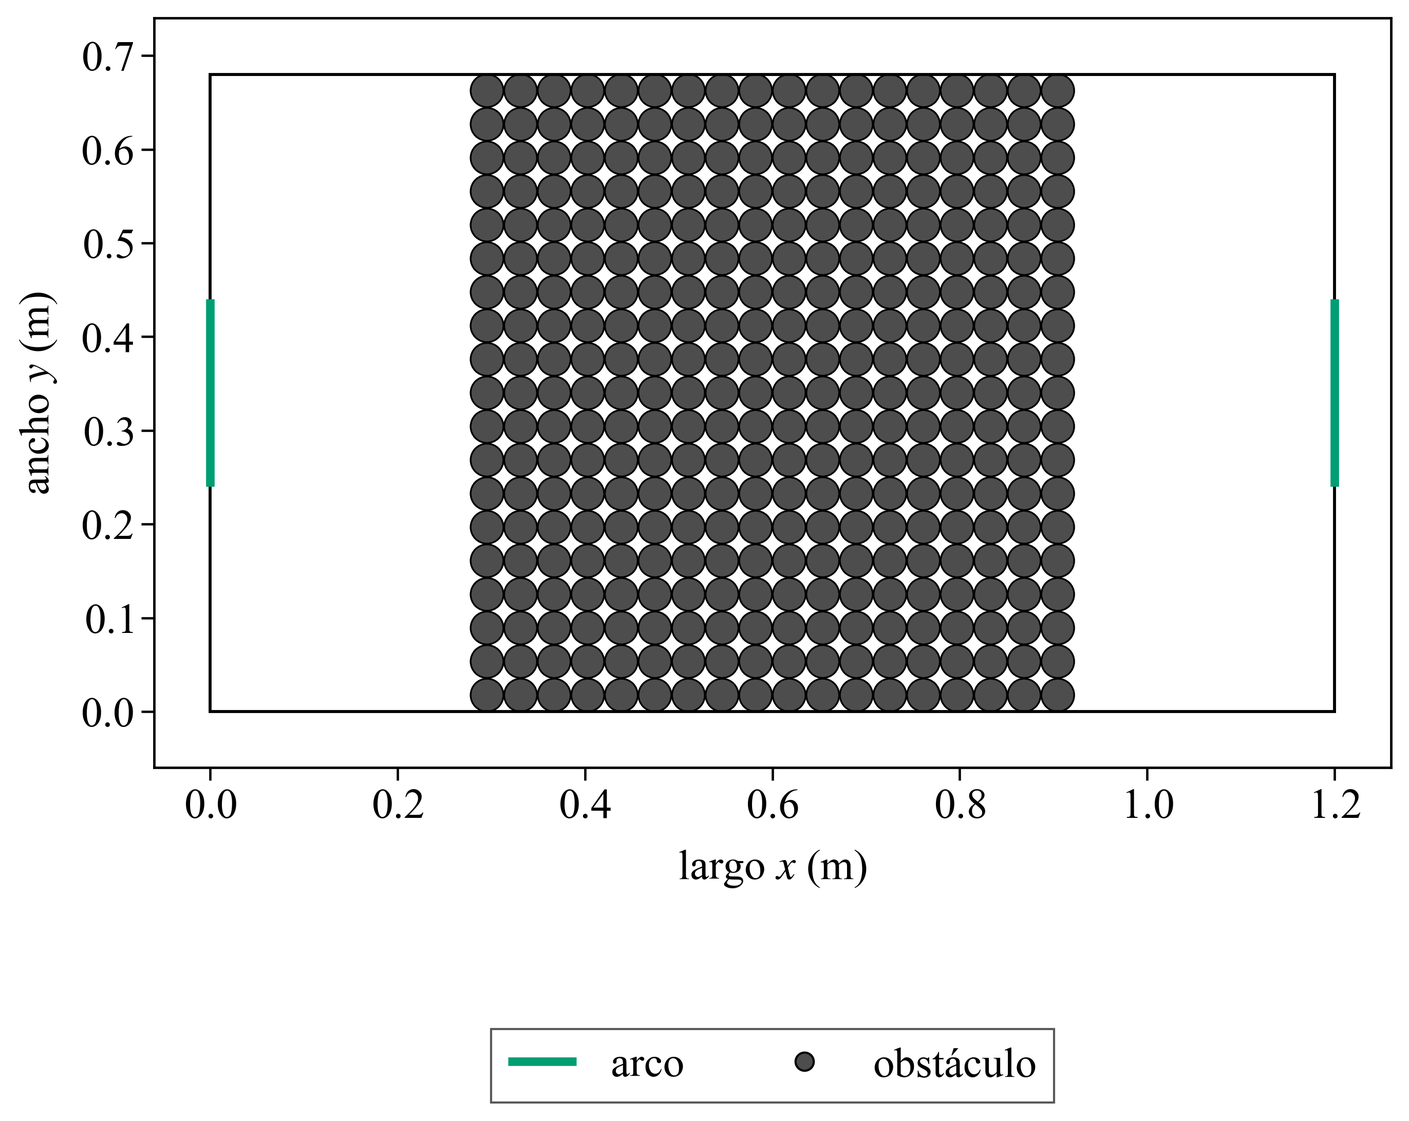
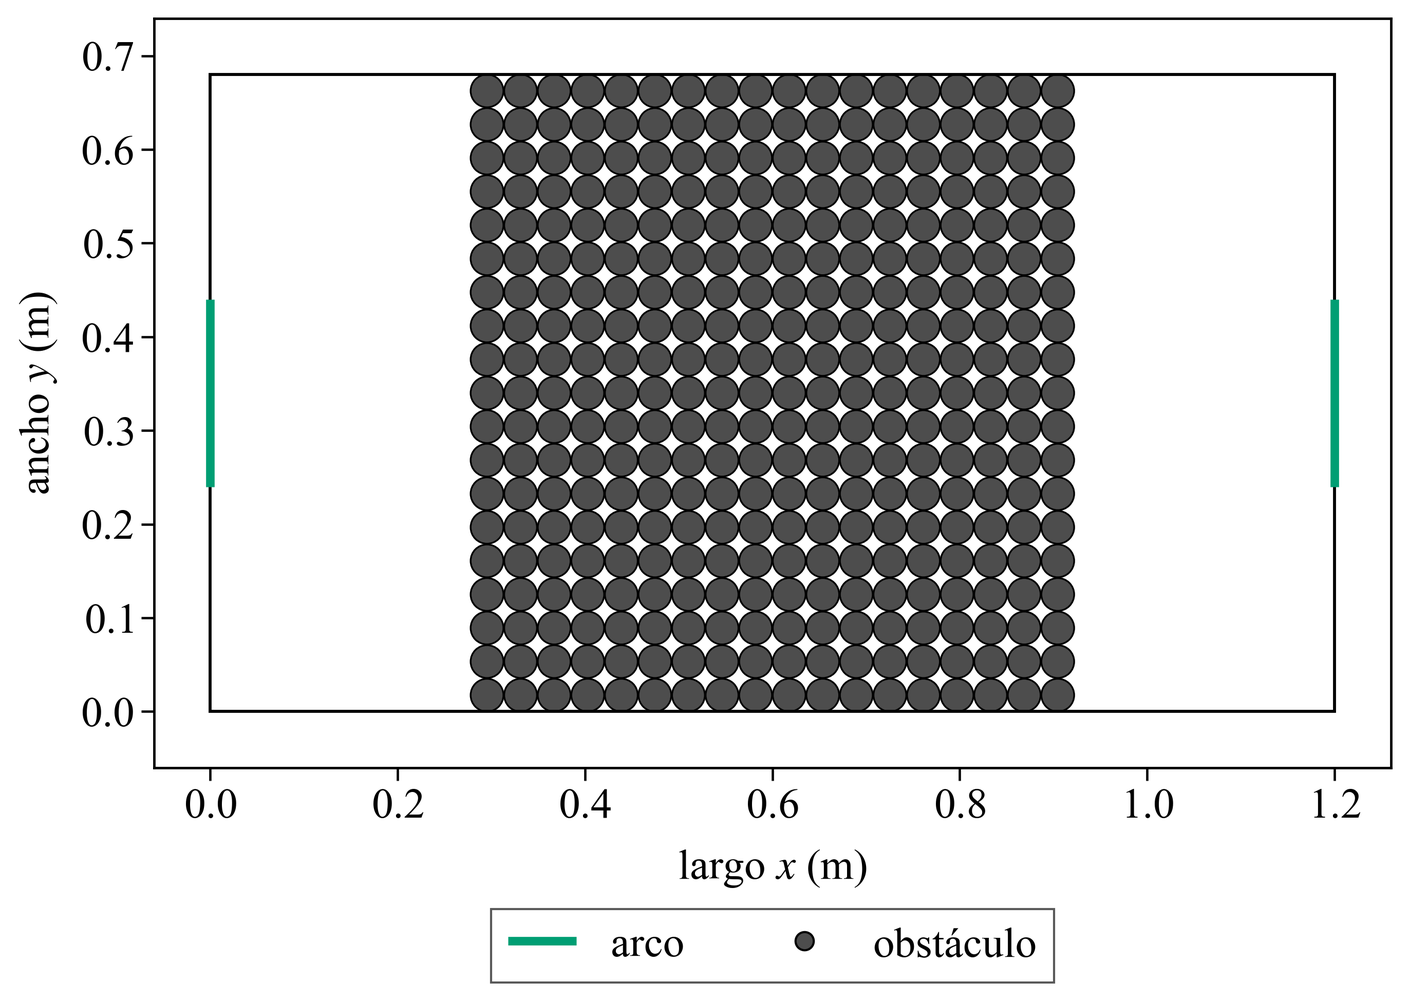
Updated markdowns

diff --git a/docs/results/1.2/1.2_configuracion.md b/docs/results/1.2/1.2_configuracion.md
@@ -12,129 +12,110 @@ menos 5 realizaciones, y comparar contra la mesa vacía.
 ## Cómo se midió
 
 ```
-python python/ga.py --outdir data/ga/full --pop 32 --gens 20 --reps 12 --jobs 8 --seed 501 --seed-config configs/ga_best.txt --exe build/EventDrivenSim.exe
-python python/run.py --exe build/EventDrivenSim.exe --outdir data/runs/1.2/empty_search --reps 12 --seed 501 --k 0 --tmax 100 --jobs 4 --preview none
-python python/plotters/plot_layout.py --obstacles configs/ga_best.txt --output docs/results/1.2/elegida.png
-python python/plotters/plot_t90.py --input docs/results/1.2/t90_generacion.txt --output docs/results/1.2/t90_generacion.png --xlabel "generación" --empty 21.3247 2.8559
-```
-
-- **Parámetros fijos:** N = 100, v0 = 1 m/s, r = 0.0175 m, m = 0.025 kg, L = 1.20 m, W = 0.68 m, d = 0.20 m, tmax = 100 s.
-- **Individuo:** lista de discos (xk, yk, Rk). Población 32, 20 generaciones. La población inicial incluye embudos, rieles, un obstáculo grande sobre el eje longitudinal y la configuración de la corrida anterior.
-- **Búsqueda:** 12 realizaciones por individuo, semillas 501 a 512, las mismas para todos. Si el mejor no mejora durante 5 generaciones la búsqueda corta; en esta corrida siguió hasta la 20.
-- **Confirmación:** semillas 601 a 612, que no entraron en la búsqueda. Ese es el ⟨t90⟩ que se reporta.
-- **Barras de error:** desvío estándar muestral de las realizaciones, igual que en el 1.1.
-
-## Datos
-
-Configuración elegida, `configs/ga_best.txt`. Cada fila es un obstáculo: xk, yk, Rk, en metros.
-
-| obstáculo | xk (m) | yk (m) | Rk (m) |
-|---|---|---|---|
-| 1 | 0.5900 | 0.3400 | 0.3400 |
-
-El disco está entero en la mesa: el centro queda sobre el eje longitudinal y el radio es la mitad del ancho, así que toca las dos paredes largas. Rk ≥ r. Con un solo obstáculo no hay solapes. En las 12 semillas de confirmación el generador ubicó las 100 partículas.
-
-⟨t90⟩ sobre esas 12 semillas:
-
-| configuración | ⟨t90⟩ (s) | desvío (s) | llegaron a Fu = 0.9 |
-|---|---|---|---|
-| elegida | 15.61 | 2.47 | 12 / 12 |
-| mesa vacía | 23.76 | 3.22 | 12 / 12 |
-
-Mejor individuo de cada generación de la búsqueda (semillas 501 a 512). La mesa vacía, con esas mismas semillas, da 21.32 ± 2.86 s y también llega a Fu = 0.9 en las 12.
-
-| generación | K | ⟨t90⟩ (s) | desvío (s) |
-|---|---|---|---|
-| 1  | 1 | 18.12 | 1.42 |
-| 2  | 1 | 18.11 | 1.69 |
-| 3  | 2 | 17.92 | 2.26 |
-| 4  | 2 | 17.66 | 1.09 |
-| 5  | 2 | 17.66 | 1.09 |
-| 6  | 2 | 17.66 | 1.09 |
-| 7  | 2 | 17.66 | 1.09 |
-| 8  | 2 | 17.64 | 1.94 |
-| 9  | 1 | 17.32 | 2.08 |
-| 10 | 1 | 17.32 | 2.08 |
-| 11 | 3 | 16.97 | 1.44 |
-| 12 | 3 | 16.97 | 1.44 |
-| 13 | 3 | 16.80 | 1.13 |
-| 14 | 3 | 16.80 | 1.13 |
-| 15 | 3 | 16.80 | 1.13 |
-| 16 | 3 | 16.80 | 1.13 |
-| 17 | 1 | 16.25 | 1.52 |
-| 18 | 1 | 16.25 | 1.52 |
-| 19 | 1 | 16.11 | 1.85 |
-| 20 | 1 | 16.03 | 1.63 |
-
-## Figuras
-
-### Configuración elegida
-
-![elegida](elegida.png)
-
-- Un disco de radio 0.34 m en (0.59 m, 0.34 m). Ocupa todo el ancho y toca las dos paredes largas. Los segmentos verdes son los arcos.
-
-### Mesas comparadas, con su ⟨t90⟩
-
-![mesas y t90](layouts_t90.png)
-
-Semillas 601 a 612. De izquierda a derecha:
-
-- Elegida, 15.61 ± 2.47 s.
-- El mismo disco centrado en x = 0.60 m, 16.96 ± 1.99 s.
-- Disco de radio 0.22 m en (0.60 m, 0.34 m), 19.72 ± 3.19 s.
-- Embudo, 21.70 ± 3.04 s.
-- Mesa vacía, 23.76 ± 3.22 s.
-
-### ⟨t90⟩ de la búsqueda frente a la mesa vacía
-
-![⟨t90⟩ de la búsqueda](t90_generacion.png)
-
-- El mejor ⟨t90⟩ baja de 18.12 s en la generación 1 a 16.03 s en la generación 20.
-- La línea naranja es la mesa vacía en las semillas de la búsqueda (21.32 s). La banda y las barras son el desvío de las 12 realizaciones, no el error de la media.
-- El 16.03 s no es el resultado que se informa: usa las semillas con las que se eligió. En las semillas de confirmación el ⟨t90⟩ de esa configuración es 15.61 ± 2.47 s, y el de la mesa vacía es 23.76 ± 3.22 s.
-
-### Pared de círculos
-
-Cada círculo tiene radio 0.035 m. Una columna tapa el alto: el primero toca la pared de abajo y el último la de arriba. El hueco entre círculos, en vertical y entre columnas, es 6.3 mm, menos que el diámetro de una partícula (35 mm). El ancho se agranda agregando columnas con ese mismo hueco, de 1 a 10: 1 columna mide 0.07 m y 10 columnas miden 0.756 m. El centro de la pared se movió de x = 0.40 m a x = 0.80 m. Semillas 601 a 612.
-
-```
+python python/plotters/plot_layout.py --obstacles configs/disco_grande.txt --output docs/results/1.2/disco_022.png
+python python/plotters/plot_layout.py --obstacles data/runs/1.2/disco_radio/r0.34_centro.txt --output docs/results/1.2/disco_034.png
+python python/plotters/plot_t90.py --input docs/results/1.2/disco_radio.txt --output docs/results/1.2/disco_radio.png --xlabel "radio $R$ (m)" --empty 23.7617 3.21995
 python python/pared.py --outdir data/runs/1.2/pared_cols --jobs 8 --reps 12 --seed 601 --exe build/EventDrivenSim.exe
-```
-
-![pared](pared.png)
-
-La de menor ⟨t90⟩ en la grilla: 9 columnas, ancho 0.68 m, centro en x = 0.60 m.
-
-![paredes](pared_t90.png)
-
-La figura muestra 1, 9 y 10 columnas. El resto del barrido está en `pared_t90.txt`.
-
-Las animaciones de esa figura, más la del círculo elegido, están en `data/runs/1.2/anim/`: `elegida.gif`, `pared_1.gif`, `pared_9.gif` y `pared_10.gif`. Semilla 601, 30 s, un cuadro cada 300 colisiones, 10 fps. El recuadro es Fu(t). En esa semilla el t90 es 17.13 s (elegida), 23.09 s (1 columna), 13.70 s (9) y 15.88 s (10).
-
-- Para 8, 9 y 10 columnas se midieron también los centros 0.45, 0.55, 0.58, 0.62, 0.65 y 0.75 m. El mínimo sigue en x = 0.60 m: mover la pared de 9 columnas a 0.58 m sube el ⟨t90⟩ a 14.93 ± 1.85 s, y a 0.62 m lo sube a 15.39 ± 1.75 s. En x = 0.45 m y x = 0.75 m queda en 23–27 s.
-- Agregar columnas en el centro baja el tiempo hasta 9: 21.50 s con 1, 16.27 s con 5, 15.05 s con 6, 14.47 s con 8 y 14.21 ± 1.41 s con 9. Con 10 vuelve a 15.52 ± 2.14 s.
-- Esa mejor pared queda debajo de la mesa vacía (23.76 ± 3.22 s) y también debajo de la elegida (15.61 ± 2.47 s). Las barras de la pared de 9 columnas y de la elegida se solapan.
-
-El radio queda fijo en el mínimo de la consigna, Rk = r = 0.0175 m. El hueco es 0.8 mm. Lo que se varía es la cantidad de columnas, de 1 a 24, con centro en x = 0.60 m y las semillas 601 a 612. Con 26 columnas el generador no ubica las 100 partículas (fracción ocupada 0.69).
-
-```
+python python/plotters/plot_layout.py --obstacles data/runs/1.2/pared_cols/c1_x0.60.txt --output docs/results/1.2/pared_1.png
+python python/plotters/plot_layout.py --obstacles data/runs/1.2/pared_cols10/c9_x0.60.txt --output docs/results/1.2/pared_9.png
+python python/plotters/plot_t90.py --input docs/results/1.2/pared_cols_grandes.txt --output docs/results/1.2/pared_cols.png --xlabel "columnas" --empty 23.7617 3.21995
 python python/pared.py --radius 0.0175 --columns 1 2 4 6 8 10 12 14 15 23 24 --centers 0.60 --outdir data/runs/1.2/pared_cols_rmin --jobs 8 --reps 12 --seed 601 --exe build/EventDrivenSim.exe
 python python/pared.py --radius 0.0175 --columns 18 19 20 21 22 --centers 0.60 --outdir data/runs/1.2/pared_rmin --jobs 8 --reps 12 --seed 601 --exe build/EventDrivenSim.exe
 python python/pared.py --radius 0.0175 --columns 16 17 --centers 0.60 --outdir data/runs/1.2/pared_rmin_lo --jobs 8 --reps 12 --seed 601 --exe build/EventDrivenSim.exe
 python python/plotters/plot_layout.py --obstacles data/runs/1.2/pared_rmin/r0.0175_c18_x0.60.txt --output docs/results/1.2/pared_18.png
 ```
 
+- **Parámetros fijos:** N = 100, v0 = 1 m/s, r = 0.0175 m, m = 0.025 kg, L = 1.20 m, W = 0.68 m, d = 0.20 m, tmax = 100 s.
+- **Realizaciones:** 12 por configuración, semillas 601 a 612, las mismas para el disco, las paredes y la mesa vacía. Las 12 llegan a Fu = 0.9.
+- **Barras de error:** desvío estándar muestral de las realizaciones, igual que en el 1.1.
+- **Disco:** un solo obstáculo, centro fijo en (0.60 m, 0.34 m), sobre el eje longitudinal. El radio va de 0.06 m a 0.34 m. 0.34 m es la mitad del ancho: el disco toca las dos paredes largas.
+- **Pared de radio 0.035 m:** cada círculo tapa parte del alto. El primero toca la pared de abajo y el último la de arriba. El hueco entre círculos es 6.3 mm, menos que el diámetro de una partícula (35 mm). El centro de la pared queda en x = 0.60 m. El ancho crece al agregar columnas, de 1 a 10: 1 columna mide 0.07 m y 9 columnas miden 0.68 m, el ancho de la mesa.
+- **Pared de radio mínimo:** Rk = r = 0.0175 m, hueco 0.8 mm, centro en x = 0.60 m. Se varía la cantidad de columnas de 1 a 24. Con 26 columnas el generador no ubica las 100 partículas (fracción ocupada 0.69).
+
+## Datos
+
+Mesa vacía, semillas 601 a 612: ⟨t90⟩ = 23.76 s, desvío 3.22 s.
+
+Disco centrado en (0.60 m, 0.34 m):
+
+| R (m) | ⟨t90⟩ (s) | desvío (s) |
+|---|---|---|
+| 0.06 | 21.60 | 2.56 |
+| 0.10 | 21.09 | 2.70 |
+| 0.14 | 19.64 | 2.35 |
+| 0.18 | 20.28 | 2.01 |
+| 0.22 | 19.72 | 3.19 |
+| 0.26 | 18.35 | 2.43 |
+| 0.30 | 17.14 | 1.48 |
+| 0.34 | 16.96 | 1.99 |
+
+Pared de R = 0.035 m, centro en x = 0.60 m:
+
+| columnas | ancho (m) | ⟨t90⟩ (s) | desvío (s) |
+|---|---|---|---|
+| 1 | 0.070 | 21.50 | 1.86 |
+| 2 | 0.146 | 19.59 | 2.30 |
+| 3 | 0.223 | 17.47 | 2.17 |
+| 4 | 0.299 | 17.13 | 2.63 |
+| 5 | 0.375 | 16.27 | 2.75 |
+| 6 | 0.451 | 15.05 | 1.67 |
+| 7 | 0.528 | 15.18 | 2.38 |
+| 8 | 0.604 | 14.47 | 1.61 |
+| 9 | 0.680 | 14.21 | 1.41 |
+| 10 | 0.756 | 15.52 | 2.14 |
+
+Pared de R = r, centro en x = 0.60 m. El mínimo está en 18 columnas; al lado, 17 y 19. Los extremos del barrido quedan en la tabla completa de `pared_columnas.txt`.
+
+| columnas | ancho (m) | K | ⟨t90⟩ (s) | desvío (s) |
+|---|---|---|---|---|
+| 1 | 0.035 | 19 | 21.49 | 2.89 |
+| 17 | 0.608 | 323 | 14.79 | 1.62 |
+| 18 | 0.644 | 342 | 13.67 | 1.31 |
+| 19 | 0.680 | 361 | 13.91 | 2.01 |
+| 24 | 0.859 | 456 | 18.61 | 2.27 |
+
+## Figuras
+
+### Disco
+
+![disco de radio 0.22 m](disco_022.png)
+
+![disco de radio 0.34 m](disco_034.png)
+
+- El de 0.22 m está centrado en (0.60 m, 0.34 m). ⟨t90⟩ = 19.72 ± 3.19 s.
+- El de 0.34 m ocupa todo el alto y toca las dos paredes largas. ⟨t90⟩ = 16.96 ± 1.99 s, debajo de la mesa vacía (23.76 ± 3.22 s).
+
+![⟨t90⟩ frente al radio](disco_radio.png)
+
+- La media baja de 21.60 s con R = 0.06 m a 16.96 s con R = 0.34 m. En R = 0.18 m sube a 20.28 s, por encima de los 19.64 s de R = 0.14 m.
+- 16.96 + 1.99 = 18.95 s y 23.76 − 3.22 = 20.54 s: las barras del disco de 0.34 m y de la mesa vacía no se solapan. Las del disco de 0.22 m sí: 19.72 + 3.19 = 22.91 s.
+
+### Pared de radio 0.035 m
+
+![pared de una columna](pared_1.png)
+
+![pared de 9 columnas](pared_9.png)
+
+- Una columna, centro en x = 0.60 m: ⟨t90⟩ = 21.50 ± 1.86 s.
+- Nueve columnas, ancho 0.68 m, el de la mesa: ⟨t90⟩ = 14.21 ± 1.41 s. Es el mínimo de este radio.
+
+![⟨t90⟩ frente a las columnas](pared_cols.png)
+
+- Agregar columnas en x = 0.60 m baja el tiempo hasta 9: 21.50 s con 1, 16.27 s con 5, 15.05 s con 6, 14.47 s con 8 y 14.21 ± 1.41 s con 9. Con 10 vuelve a 15.52 ± 2.14 s.
+- 14.21 + 1.41 = 15.62 s y 23.76 − 3.22 = 20.54 s: las barras con la mesa vacía no se solapan.
+
+### Pared de radio mínimo
+
 ![pared de 18 columnas](pared_18.png)
 
-![columnas de la pared](pared_columnas.png)
+![⟨t90⟩ frente a las columnas, R = r](pared_columnas.png)
 
-- El mínimo es 13.67 ± 1.31 s, con 18 columnas (ancho 0.644 m). A los lados: 14.79 ± 1.62 s con 17 y 13.91 ± 2.01 s con 19. Con 1 columna da 21.49 ± 2.89 s y con 24 vuelve a 18.61 ± 2.27 s. La animación está en `data/runs/1.2/anim/pared_18.gif` (semilla 601, t90 = 12.01 s).
-- 13.67 + 1.31 = 14.98 s y 15.61 − 2.47 = 13.14 s: las barras con la elegida se siguen solapando.
+- El mínimo es 13.67 ± 1.31 s, con 18 columnas y ancho 0.644 m. A los lados: 14.79 ± 1.62 s con 17 y 13.91 ± 2.01 s con 19. Con 1 columna da 21.49 ± 2.89 s y con 24 vuelve a 18.61 ± 2.27 s.
+- 13.67 + 1.31 = 14.98 s y 14.21 − 1.41 = 12.80 s: las barras de la pared de 18 columnas y la de 9 se solapan. Con la mesa vacía no: 14.98 s contra 20.54 s.
+- La animación de esta pared está en `data/runs/1.2/anim/pared_18.gif` (semilla 601, t90 = 12.01 s). La del disco de 0.34 m, en `data/runs/1.2/anim/disco_r034/`.
 
 ## Notas y conclusiones
 
-- La configuración elegida tiene ⟨t90⟩ = 15.61 ± 2.47 s, frente a 23.76 ± 3.22 s de la mesa vacía, en 12 realizaciones que no participaron de la búsqueda. Las 12 llegan a Fu = 0.9.
-- En la búsqueda el mejor valor sigue bajando hasta la generación 20. El disco grande sobre el eje longitudinal le gana a los layouts de dos y tres discos que fueron mejores en generaciones intermedias.
-- Las barras de la confirmación no se solapan: 15.61 + 2.47 = 18.08 s y 23.76 − 3.22 = 20.54 s.
-- La pared de círculos de radio 0.035 m, en las mismas semillas 601 a 612, tiene su mínimo en 14.21 ± 1.41 s, con 9 columnas (ancho 0.68 m) y centro en x = 0.60 m. Con el radio mínimo de la consigna (0.0175 m) baja a 13.67 ± 1.31 s, con 18 columnas y ancho 0.644 m. En ambos casos la media queda debajo de la elegida y las barras se solapan.
+- El menor ⟨t90⟩ medido es 13.67 ± 1.31 s: pared de 18 columnas, R = r, ancho 0.644 m, centro en x = 0.60 m. Las 12 realizaciones llegan a Fu = 0.9.
+- En el disco, agrandar el radio baja la media. El de 0.34 m, que tapa el alto, da 16.96 ± 1.99 s, debajo de la mesa vacía y por encima de las dos paredes.
+- Con R = 0.035 m el mínimo está en 9 columnas (14.21 ± 1.41 s), el ancho de la mesa. Con el radio mínimo de la consigna baja un poco más, a 18 columnas. Las barras de esas dos paredes se solapan; las de cualquiera de las dos con la mesa vacía, no.

diff --git a/docs/results/1.3/1.3_difusion.md b/docs/results/1.3/1.3_difusion.md
@@ -14,76 +14,77 @@ si D y ⟨t90⟩ se correlacionan.
 
 ```
 python python/run.py --exe build/EventDrivenSim.exe --outdir data/runs/1.3/msd/vacia --reps 1 --seed 401 --k 200 --tmax 100 --jobs 1 --preview none
-python python/run.py --exe build/EventDrivenSim.exe --outdir data/runs/1.3/msd/elegida_full --obstacles configs/ga_best.txt --reps 1 --seed 401 --k 200 --tmax 100 --jobs 1 --preview none
-python python/run.py --exe build/EventDrivenSim.exe --outdir data/runs/1.3/msd/disco --obstacles configs/disco_grande.txt --reps 1 --seed 401 --k 200 --tmax 100 --jobs 1 --preview none
-python python/run.py --exe build/EventDrivenSim.exe --outdir data/runs/1.3/msd/embudo --obstacles configs/embudo.txt --reps 1 --seed 401 --k 200 --tmax 100 --jobs 1 --preview none
+python python/run.py --exe build/EventDrivenSim.exe --outdir data/runs/1.3/msd/disco_r034 --obstacles data/runs/1.2/disco_radio/r0.34_centro.txt --reps 1 --seed 401 --k 200 --tmax 100 --jobs 1 --preview none
+python python/run.py --exe build/EventDrivenSim.exe --outdir data/runs/1.3/msd/pared_9 --obstacles data/runs/1.2/pared_cols10/c9_x0.60.txt --reps 1 --seed 401 --k 200 --tmax 100 --jobs 1 --preview none
 python python/run.py --exe build/EventDrivenSim.exe --outdir data/runs/1.3/msd/pared_18 --obstacles data/runs/1.2/pared_rmin/r0.0175_c18_x0.60.txt --reps 1 --seed 401 --k 200 --tmax 100 --jobs 1 --preview none
-python python/run.py --exe build/EventDrivenSim.exe --outdir data/runs/1.3/t90/disco_601 --obstacles configs/disco_grande.txt --reps 12 --seed 601 --k 0 --tmax 100 --jobs 4 --preview none
-python python/run.py --exe build/EventDrivenSim.exe --outdir data/runs/1.3/t90/embudo_601 --obstacles configs/embudo.txt --reps 12 --seed 601 --k 0 --tmax 100 --jobs 4 --preview none
-python python/plotters/plot_layout.py --obstacles configs/ga_best.txt --output docs/results/1.3/elegida.png
+python python/plotters/plot_layout.py --obstacles data/runs/1.2/disco_radio/r0.34_centro.txt --output docs/results/1.3/disco.png
+python python/plotters/plot_layout.py --obstacles data/runs/1.2/pared_cols10/c9_x0.60.txt --output docs/results/1.3/pared_9.png
 python python/plotters/plot_layout.py --obstacles data/runs/1.2/pared_rmin/r0.0175_c18_x0.60.txt --output docs/results/1.3/pared.png
-python python/plotters/plot_layout.py --obstacles configs/disco_grande.txt --output docs/results/1.3/disco.png
-python python/plotters/plot_layout.py --obstacles configs/embudo.txt --output docs/results/1.3/embudo.png
 python python/plotters/plot_msd.py --input docs/results/1.3/msd_vacia.txt --output docs/results/1.3/msd_vacia.png --error-output docs/results/1.3/msd_error.png --t-min 0.5 --t-max 1.5
 python python/plotters/plot_d_vs_t90.py --input docs/results/1.3/d_vs_t90.txt --output docs/results/1.3/d_vs_t90.png
 ```
 
-- **Parámetros fijos:** los del 1.2. N = 100, v0 = 1 m/s, tmax = 100 s.
-- **DCM:** una realización, semilla 401, la misma para las cinco configuraciones. El promedio es sobre las 100 partículas, respecto de sus posiciones iniciales. El motor guarda el estado inicial, un cuadro cada 200 colisiones y cada gol.
-- **Ajuste:** entre 0.5 s y 1.5 s. Antes de 0.5 s el desplazamiento todavía sale del régimen balístico (el tiempo entre colisiones es del orden de 0.1 s). Después de 2 s la mesa, que se cruza en alrededor de 1 s, dobla la curva y el DCM deja de crecer como 4 D t. El modelo es ⟨Δr²⟩ = b + 4 D t. Para cada D, b es el intercepto que minimiza E(D) = Σ [DCMᵢ − b − 4 D tᵢ]². D informado es esa pendiente dividida por 4.
-- **⟨t90⟩:** semillas 601 a 612, las de confirmación del 1.2. Mesa vacía, configuración elegida y pared de 18 columnas: esos valores. Disco grande y embudo: medidos en esas mismas semillas. Las barras son el desvío estándar muestral.
+- **Parámetros fijos:** los del 1.2. N = 100, v0 = 1 m/s, r = 0.0175 m, m = 0.025 kg, L = 1.20 m, W = 0.68 m, d = 0.20 m, tmax = 100 s.
+- **DCM:** una realización, semilla 401, la misma para las cuatro configuraciones. El promedio es sobre las 100 partículas, frescas y usadas, respecto de sus posiciones iniciales. El motor guarda el estado inicial, un cuadro cada 200 colisiones y cada gol.
+- **Ajuste:** entre 0.5 s y 1.5 s. Antes de 0.5 s el desplazamiento todavía sale del régimen balístico (el tiempo entre colisiones es del orden de 0.1 s). Después de 2 s la mesa, que se cruza en alrededor de 1 s, dobla la curva y el DCM deja de crecer como 4 D t. La relación en 2D es ⟨Δr²⟩ = 4 D t. La Teórica 0 ajusta por cuadrados mínimos: para cada D, b es el intercepto que minimiza E(D) = Σ [DCMᵢ − b − 4 D tᵢ]². D informado es esa pendiente dividida por 4. b no entra en la relación.
+- **⟨t90⟩:** el del 1.2, 12 realizaciones, semillas 601 a 612. Las barras son el desvío estándar muestral. D es de una sola realización, así que no tiene desvío.
 
 ## Datos
 
 | configuración | D (m²/s) | ⟨t90⟩ (s) | desvío (s) | llegaron a Fu = 0.9 |
 |---|---|---|---|---|
-| pared, 18 columnas | 0.00497 | 13.67 | 1.31 | 12 / 12 |
-| elegida | 0.00465 | 15.61 | 2.47 | 12 / 12 |
-| disco grande | 0.0122 | 19.72 | 3.19 | 12 / 12 |
-| embudo | 0.0188 | 21.70 | 3.04 | 12 / 12 |
+| pared de 18 columnas | 0.00497 | 13.67 | 1.31 | 12 / 12 |
+| pared de 9 columnas | 0.00337 | 14.21 | 1.41 | 12 / 12 |
+| disco de radio 0.34 m | 0.00577 | 16.96 | 1.99 | 12 / 12 |
 | mesa vacía | 0.0169 | 23.76 | 3.22 | 12 / 12 |
 
-D es de una sola realización, así que no tiene desvío. La pared es la de radio 0.0175 m, 18 columnas y centro en x = 0.60 m. La elegida es el disco de R = 0.34 m centrado en (0.59 m, 0.34 m), `configs/ga_best.txt`. El disco grande es un obstáculo en (0.60 m, 0.34 m) con R = 0.22 m (`configs/disco_grande.txt`). El embudo son dos discos de R = 0.075 m en x = 0.45 m, y = 0.145 m y y = 0.535 m (`configs/embudo.txt`).
+- El disco está centrado en (0.60 m, 0.34 m). El radio es la mitad del ancho, así que toca las dos paredes largas y ocupa todo el alto.
+- La pared de 9 columnas tiene R = 0.035 m, centro en x = 0.60 m y ancho 0.68 m, igual al ancho de la mesa.
+- La pared de 18 columnas tiene R = r = 0.0175 m, centro en x = 0.60 m y ancho 0.644 m. Es el mínimo de ⟨t90⟩ del 1.2. El hueco entre círculos es 0.8 mm, menor que el diámetro de una partícula.
 
 ## Figuras
 
-### Pared, elegida, disco grande y embudo
+### Disco y paredes
 
-![pared](pared.png)
+![disco de radio 0.34 m](disco.png)
 
-![elegida](elegida.png)
+![pared de 9 columnas](pared_9.png)
 
-![disco grande](disco.png)
+![pared de 18 columnas](pared.png)
 
-![embudo](embudo.png)
-
-- La pared tiene círculos de radio 0.0175 m, 18 columnas y centro en x = 0.60 m. El hueco entre círculos es 0.8 mm, menor que el diámetro de una partícula.
-- La elegida es un disco de radio 0.34 m en (0.59 m, 0.34 m). Ocupa todo el ancho y toca las dos paredes largas.
-- El disco grande tapa la franja de los arcos y deja un pasillo contra cada pared larga.
-- El embudo deja una abertura de 0.24 m, centrada a la altura de los arcos.
+- El disco tapa el alto de la mesa y deja un pasillo solo por los costados cortos, fuera de la figura en x.
+- La pared de 9 columnas llega de una pared larga a la otra. La de 18 es más angosta y usa el radio mínimo de la consigna.
 
 ### DCM de la mesa vacía y ajuste
 
 ![DCM de la mesa vacía](msd_vacia.png)
 
-- La recta es el ajuste entre 0.5 s y 1.5 s. D = 0.0169 m²/s.
+- La recta es el ajuste entre 0.5 s y 1.5 s. D = 0.0169 m²/s, la pendiente dividida por 4.
 - Después de esa ventana la pendiente baja. Hasta los 15 s el DCM se queda entre 0.22 y 0.30 m²; la recta del ajuste, seguida hasta ahí, pasaría de 1 m².
 
 ### Error del ajuste
 
 ![E(D) de la mesa vacía](msd_error.png)
 
-- E(D) tiene un mínimo en D = 0.0169 m²/s, el mismo valor que la pendiente dividida por 4.
+Para cada D se elige el intercepto b que minimiza la suma de residuos cuadrados:
+
+$$
+E(D) = \sum_{i}\left[\mathrm{DCM}_i - \left(b(D) + 4 D t_i\right)\right]^2
+$$
+
+El mínimo está en D = 0.0169 m²/s, el mismo valor que la pendiente dividida por 4. El mismo ajuste, en la misma ventana, da el D de las otras tres configuraciones.
 
 ### D y ⟨t90⟩
 
-![D frente a t90](d_vs_t90.png)
+![D frente a ⟨t90⟩](d_vs_t90.png)
 
-- La pared tiene el menor ⟨t90⟩ (13.67 s) y un D casi igual al de la elegida (0.00497 contra 0.00465 m²/s). La elegida sigue con el menor D. El disco grande queda en el medio en las dos (0.0122 m²/s y 19.72 s).
-- El embudo tiene más difusión que la mesa vacía (0.0188 contra 0.0169 m²/s) y un ⟨t90⟩ menor (21.70 s contra 23.76 s).
-- Entre la elegida y la mesa vacía las barras no se solapan: 8.15 s de diferencia de medias, con desvíos de 2.47 s y 3.22 s. El disco y el embudo sí se solapan con la mesa vacía. Las de la pared y la elegida también: 13.67 + 1.31 = 14.98 s y 15.61 − 2.47 = 13.14 s.
+- Las tres configuraciones con obstáculos difunden menos que la mesa vacía (0.0169 m²/s) y llegan antes que sus 23.76 ± 3.22 s.
+- La pared de 9 columnas tiene el menor D, 0.00337 m²/s, y un ⟨t90⟩ de 14.21 ± 1.41 s. No es el menor ⟨t90⟩.
+- El menor ⟨t90⟩ es la pared de 18 columnas, 13.67 ± 1.31 s, con D = 0.00497 m²/s. El disco queda en el medio: D = 0.00577 m²/s y ⟨t90⟩ = 16.96 ± 1.99 s.
+- Las barras de la pared de 18 columnas y la de 9 se solapan: 13.67 + 1.31 = 14.98 s y 14.21 − 1.41 = 12.80 s. Las de las dos paredes con la mesa vacía no: 14.21 + 1.41 = 15.62 s y 23.76 − 3.22 = 20.54 s.
 
 ## Notas y conclusiones
 
-- D es el de la ventana 0.5–1.5 s, semilla 401. ⟨t90⟩ es el de las semillas 601 a 612. Las 12 realizaciones de cada configuración llegan a Fu = 0.9.
-- La pared de 18 columnas tiene el menor ⟨t90⟩ y un D casi igual al de la elegida, que sigue siendo el menor. El disco grande queda en el medio. El embudo no sigue esa orden: difunde más que la mesa vacía y aun así llega un poco antes. El D chico de la pared y de la elegida sale de que las dos tapan el ancho y el desplazamiento en y se satura enseguida.
+- D es el de la ventana 0.5–1.5 s, semilla 401. ⟨t90⟩ es el del 1.2, semillas 601 a 612. Las 12 realizaciones de cada configuración llegan a Fu = 0.9.
+- Tapar el alto de la mesa, con el disco o con una pared, baja D respecto de la mesa vacía: el desplazamiento en y se satura. Las tres quedan entre 0.00337 y 0.00577 m²/s, contra 0.0169 m²/s de la mesa vacía, y las tres llegan antes.
+- Dentro de ese grupo el orden de D no es el de ⟨t90⟩. La pared de 9 columnas difunde menos que la de 18 y que el disco, pero la de 18 sigue siendo la de menor ⟨t90⟩.
